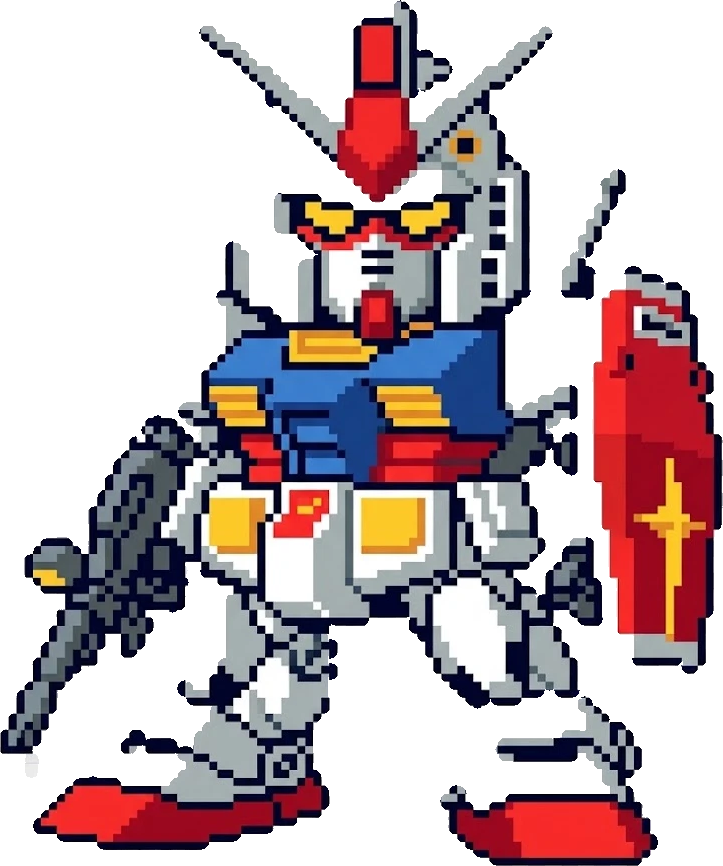
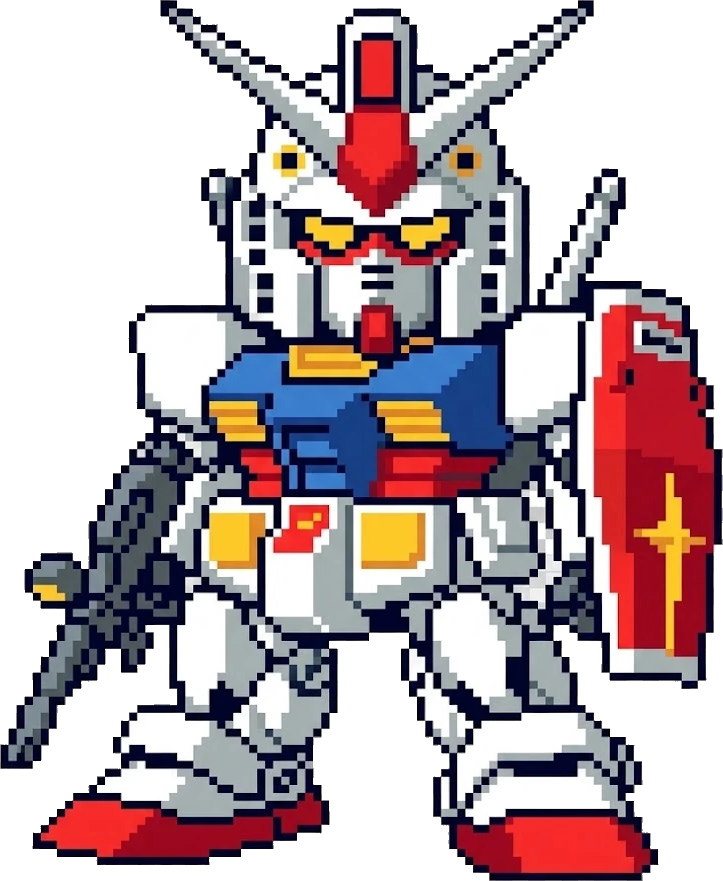
Fix RX78 sprite losing white armour to background removal
RX78's white armour is the same 255 tone as the checkerboard and its
outlines are thin, so dechecker's morphological close bridged them and
the flood fill erased the helmet, shoulders and legs. Add a --range mode
(seed on the full span between checker tones, no close) that lets the
outline alone seal the suit, and rebuild the RX78 sprites with it.

diff --git a/pebble/gundam_wfm_static_wf/tools/dechecker.py b/pebble/gundam_wfm_static_wf/tools/dechecker.py
@@ -47,6 +47,19 @@ leftover checker specks. On this art the margin is comfortable: Sazabi's two
 funnel clusters are 3.9% of the body and every genuine artifact is under
 0.21%, so the 1% default sits in a wide empty gap. Raise it and you start
 eating funnels; that is the number to check first if a suit loses a part.
+
+--range, for art whose outline is the only reliable seal
+--------------------------------------------------------
+RX78 breaks rule 2. Its white armour is the 255 checker tone and its black
+outlines are thin, so the close bridges them and the fill pours into the
+helmet, shoulders and legs. Its board is also irregular (two grey cells
+side by side in places), so nothing can be read off the grid's geometry.
+
+--range swaps the tight tolerance for the whole span between the two tones
+(so JPEG/WebP smear at cell boundaries no longer cuts the background into
+islands) and drops the close entirely. With no close the fill cannot cross
+any outline pixel, so a suit whose outline is unbroken keeps all of its
+white. Use it only when the outline is unbroken: one gap and the fill gets in.
 """
 
 import os
@@ -93,16 +106,22 @@ def checker_tones(value, is_neutral):
     return sorted(tones)
 
 
-def dechecker(path, tol=10, neutral=24, close_r=7, peel=2, min_part=0.01):
+def dechecker(path, tol=10, neutral=24, close_r=7, peel=2, min_part=0.01,
+              span=False):
     rgb = np.asarray(Image.open(path).convert('RGB')).astype(np.int16)
     is_neutral = (rgb.max(2) - rgb.min(2)) <= neutral
     value = rgb.mean(2)
 
     lo, hi = checker_tones(value, is_neutral)
-    seed = is_neutral & ((np.abs(value - lo) <= tol) |
-                         (np.abs(value - hi) <= tol))
+    if span:
+        # --range: everything between the tones, no close (see docstring).
+        seed = is_neutral & (value >= lo - tol) & (value <= hi + tol)
+        close_r = 0
+    else:
+        seed = is_neutral & ((np.abs(value - lo) <= tol) |
+                             (np.abs(value - hi) <= tol))
 
-    background = _close(seed, close_r)
+    background = _close(seed, close_r) if close_r else seed
     labels, _ = ndimage.label(background)
     edge_labels = np.unique(np.concatenate([labels[0, :], labels[-1, :],
                                             labels[:, 0], labels[:, -1]]))
@@ -149,7 +168,8 @@ def main(argv):
     if '--min-part' in argv:
         min_part = float(argv[argv.index('--min-part') + 1])
     print("%s" % os.path.basename(src))
-    img = dechecker(src, tol=tol, min_part=min_part)
+    img = dechecker(src, tol=tol, min_part=min_part,
+                    span='--range' in argv)
     out_dir = os.path.dirname(os.path.abspath(dst))
     if out_dir and not os.path.isdir(out_dir):
         os.makedirs(out_dir)
